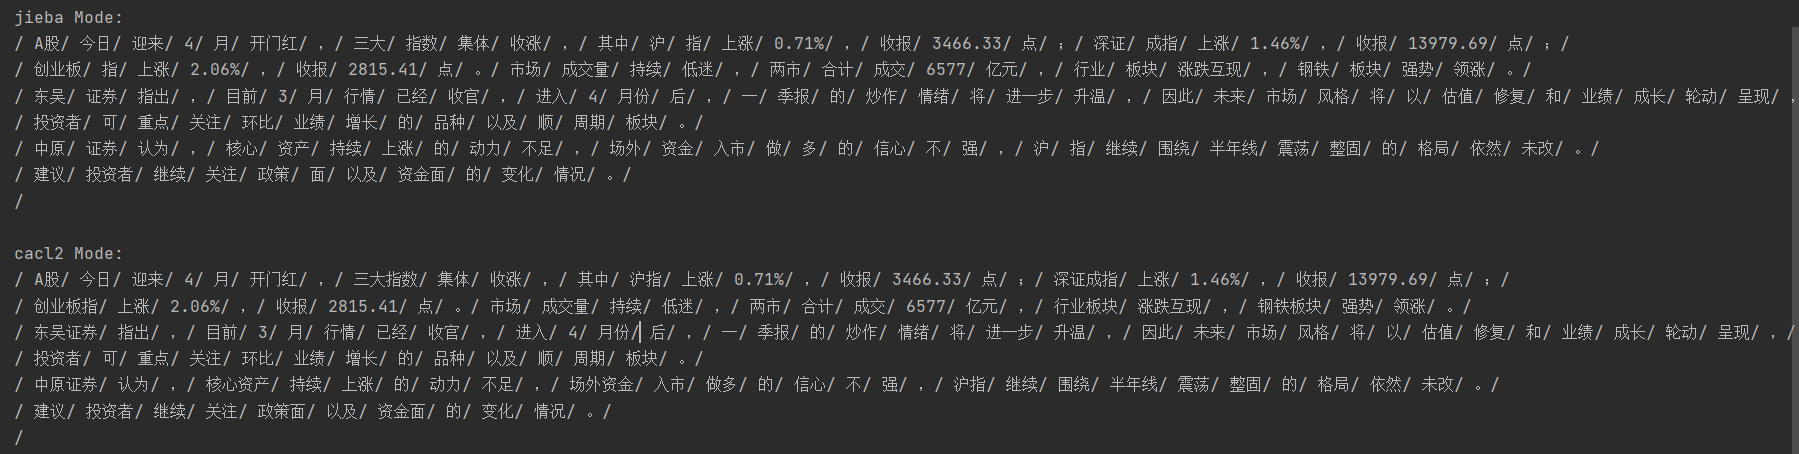
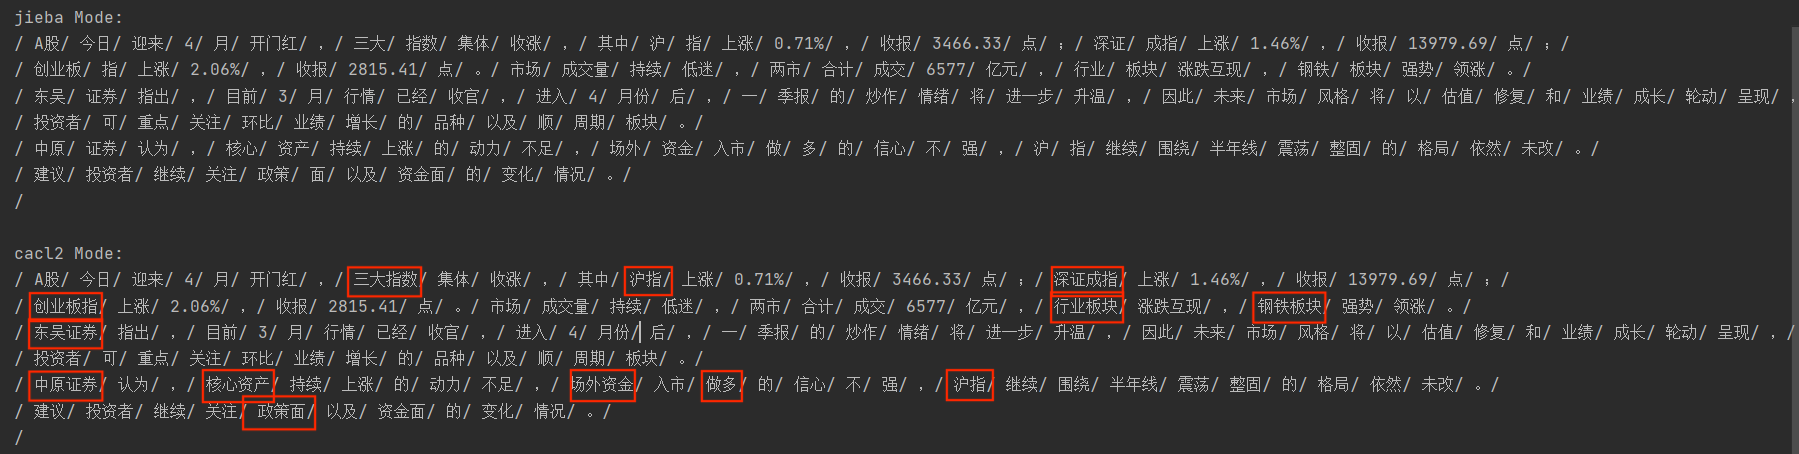
monthly update

diff --git a/README.md b/README.md
@@ -126,9 +126,70 @@ If you need further information about all entries, Please refer to [Statistics](
 ## Comparison and Test
 ### 1.Comparsion 
 #### 1.1 Compare CaCl2 Dictionary and [jieba](https://github.com/fxsjy/jieba/)（@CaoWJ）Dictionary
-![Compare Lexicon]()
+
+##### Text for test
+```python
+text = """
+A股今日迎来4月开门红，三大指数集体收涨，其中沪指上涨0.71%，收报3466.33点；深证成指上涨1.46%，收报13979.69点；
+创业板指上涨2.06%，收报2815.41点。市场成交量持续低迷，两市合计成交6577亿元，行业板块涨跌互现，钢铁板块强势领涨。
+东吴证券指出，目前3月行情已经收官，进入4月份后，一季报的炒作情绪将进一步升温，因此未来市场风格将以估值修复和业绩成长轮动呈现，
+投资者可重点关注环比业绩增长的品种以及顺周期板块。
+中原证券认为，核心资产持续上涨的动力不足，场外资金入市做多的信心不强，沪指继续围绕半年线震荡整固的格局依然未改。
+建议投资者继续关注政策面以及资金面的变化情况。
+
+"""
+```
+##### Implement jieba with standard dictionary (demo)
+```python
+import jieba
+seg_list = jieba.cut(text, cut_all=False)
+print("jieba: " + "/ ".join(seg_list))
+```
+##### Jieba Output:
+```
+/ A股/ 今日/ 迎来/ 4/ 月/ 开门红/ ，/ 三大/ 指数/ 集体/ 收涨/ ，/ 其中/ 沪/ 指/ 上涨/ 0.71%/ ，/ 收报/ 3466.33/ 点/ ；/ 深证/ 成指/ 上涨/ 1.46%/ ，/ 收报/ 13979.69/ 点/ ；/ 
+/ 创业板/ 指/ 上涨/ 2.06%/ ，/ 收报/ 2815.41/ 点/ 。/ 市场/ 成交量/ 持续/ 低迷/ ，/ 两市/ 合计/ 成交/ 6577/ 亿元/ ，/ 行业/ 板块/ 涨跌互现/ ，/ 钢铁/ 板块/ 强势/ 领涨/ 。/ 
+/ 东吴/ 证券/ 指出/ ，/ 目前/ 3/ 月/ 行情/ 已经/ 收官/ ，/ 进入/ 4/ 月份/ 后/ ，/ 一/ 季报/ 的/ 炒作/ 情绪/ 将/ 进一步/ 升温/ ，/ 因此/ 未来/ 市场/ 风格/ 将/ 以/ 估值/ 修复/ 和/ 业绩/ 成长/ 轮动/ 呈现/ ，/ 
+/ 投资者/ 可/ 重点/ 关注/ 环比/ 业绩/ 增长/ 的/ 品种/ 以及/ 顺/ 周期/ 板块/ 。/ 
+/ 中原/ 证券/ 认为/ ，/ 核心/ 资产/ 持续/ 上涨/ 的/ 动力/ 不足/ ，/ 场外/ 资金/ 入市/ 做/ 多/ 的/ 信心/ 不/ 强/ ，/ 沪/ 指/ 继续/ 围绕/ 半年线/ 震荡/ 整固/ 的/ 格局/ 依然/ 未改/ 。/ 
+/ 建议/ 投资者/ 继续/ 关注/ 政策/ 面/ 以及/ 资金面/ 的/ 变化/ 情况/ 。/ 
+```
+##### Implement jieba with CaCl2 dictionary
+```python
+import jieba
+dict_name = '490000.txt'
+jieba.load_userdict(dict_name)
+seg_list = jieba.cut(text, cut_all=False)
+print("cacl2: " + "/ ".join(seg_list))
+```
+##### CaCl2 Output:
+```
+/ A股/ 今日/ 迎来/ 4/ 月/ 开门红/ ，/ 三大指数/ 集体/ 收涨/ ，/ 其中/ 沪指/ 上涨/ 0.71%/ ，/ 收报/ 3466.33/ 点/ ；/ 深证成指/ 上涨/ 1.46%/ ，/ 收报/ 13979.69/ 点/ ；/ 
+/ 创业板指/ 上涨/ 2.06%/ ，/ 收报/ 2815.41/ 点/ 。/ 市场/ 成交量/ 持续/ 低迷/ ，/ 两市/ 合计/ 成交/ 6577/ 亿元/ ，/ 行业板块/ 涨跌互现/ ，/ 钢铁板块/ 强势/ 领涨/ 。/ 
+/ 东吴证券/ 指出/ ，/ 目前/ 3/ 月/ 行情/ 已经/ 收官/ ，/ 进入/ 4/ 月份/ 后/ ，/ 一/ 季报/ 的/ 炒作/ 情绪/ 将/ 进一步/ 升温/ ，/ 因此/ 未来/ 市场/ 风格/ 将/ 以/ 估值/ 修复/ 和/ 业绩/ 成长/ 轮动/ 呈现/ ，/ 
+/ 投资者/ 可/ 重点/ 关注/ 环比/ 业绩/ 增长/ 的/ 品种/ 以及/ 顺/ 周期/ 板块/ 。/ 
+/ 中原证券/ 认为/ ，/ 核心资产/ 持续/ 上涨/ 的/ 动力/ 不足/ ，/ 场外资金/ 入市/ 做多/ 的/ 信心/ 不/ 强/ ，/ 沪指/ 继续/ 围绕/ 半年线/ 震荡/ 整固/ 的/ 格局/ 依然/ 未改/ 。/ 
+/ 建议/ 投资者/ 继续/ 关注/ 政策面/ 以及/ 资金面/ 的/ 变化/ 情况/ 。/ 
+```
+* **Comparsion**
+
+![Compare CaCl2 and Jieba dictionary](https://github.com/limccn/cacl2/blob/master/docs/images/jieba.png)
+
 #### 1.2 Word segmentation compare with [招金词酷](https://mp.weixin.qq.com/s/CuSZQ-BVZTzVS1ljYLcaKw?)（@CaoWJ）
-![Word segmentation]()
+
+##### 招金词酷(version 1.1) Output
+```
+A股  今日  迎来  4  月  开门红  三大  指数  集体  收涨  其中  沪指  上涨  0.71  %  收报  3466.33  点  深证  成指  上涨  1.46  %  收报  13979.69  点  
+创业板  指  上涨  2.06  %  收报  2815.41  点  市场  成交量  持续  低迷  两  市  合计  成交  6577  亿元  行业板块  涨跌互现  钢铁板块  强势  领涨  
+东吴证券  指出  目前  3  月  行情  已经  收官  进入  4  月份  后  一  季报  的  炒作  情绪  将  进一步  升温  因此  未来  市场  风格  将  以  估值  修复  和  业绩  成长  轮动  呈现  
+投资者  可  重点关注  环比  业绩增长  的  品种  以及  顺  周期  板块  
+中原证券  认为  核心  资产  持续  上涨的  动力  不足  场外  资金  入市  做  多  的  信心  不  强  沪指  继续  围绕  半年线  震荡  整固  的  格局  依然  未改  
+建议投资者  继续关注  政策面  以及  资金面  的  变化  情况
+```
+
+* **Comparsion**
+
+![Compare CaCl2 and 招金词酷](https://github.com/limccn/cacl2/blob/master/docs/images/zhaojinciku.png)
 #### 1.3 Document summarization compare with [招金词酷](https://mp.weixin.qq.com/s/CuSZQ-BVZTzVS1ljYLcaKw?)（@CaoWJ）
 ![Document summarization]()
 
@@ -158,7 +219,9 @@ Word segmentation test use Standard Chinese test dataset
 ### 2.Monthly/Quarterly releases
 | Version |  Circle |  Date | Changelogs |
 | :----: | :----: | :----: | :---- |
-| v0.2.21.04 | monthly | 2021-02-01 | Release: banking and financials dictionary  |
+| v0.2.21.03 | monthly | 2021-04-06 | Comparsion test and code added |
+| v0.2.21.02 | monthly | 2021-03-01 | Candidate entries added |
+| v0.2.21.01 | monthly | 2021-02-01 | Release: banking and financials dictionary  |
 | v0.2.20.12 | monthly | 2021-01-01 | v0.2 Initial version |
 
 **Detail monthly/quarterly releases history, please refer to [Auto-Release history](https://github.com/limccn/cacl2#2monthlyqurterly-releases)

diff --git a/README-zh_CN.md b/README-zh_CN.md
@@ -120,7 +120,8 @@ jieba.load_userdict(os.path.join(BASE_PATH_TO_DICT), dict_name))
 ## 四、使用效果
 ### 1.工具测试对比
 #### 1.1 使用CaCl2标准词库和Jieba标准库测试分词结果对比
-分词文本内容
+
+##### 测试分词文本内容
 ```python
 text = """
 A股今日迎来4月开门红，三大指数集体收涨，其中沪指上涨0.71%，收报3466.33点；深证成指上涨1.46%，收报13979.69点；
@@ -132,15 +133,14 @@ A股今日迎来4月开门红，三大指数集体收涨，其中沪指上涨0.7
 
 """
 ```
-* **Jieba标准库分词（代码示例）**
+##### Jieba标准库分词（代码示例）
 ```python
 import jieba
 seg_list = jieba.cut(text, cut_all=False)
-print("jieba Mode: " + "/ ".join(seg_list))
+print("jieba: " + "/ ".join(seg_list))
 ```
-Output:
-```python
-jieba Mode: 
+##### Jieba输出结果:
+```
 / A股/ 今日/ 迎来/ 4/ 月/ 开门红/ ，/ 三大/ 指数/ 集体/ 收涨/ ，/ 其中/ 沪/ 指/ 上涨/ 0.71%/ ，/ 收报/ 3466.33/ 点/ ；/ 深证/ 成指/ 上涨/ 1.46%/ ，/ 收报/ 13979.69/ 点/ ；/ 
 / 创业板/ 指/ 上涨/ 2.06%/ ，/ 收报/ 2815.41/ 点/ 。/ 市场/ 成交量/ 持续/ 低迷/ ，/ 两市/ 合计/ 成交/ 6577/ 亿元/ ，/ 行业/ 板块/ 涨跌互现/ ，/ 钢铁/ 板块/ 强势/ 领涨/ 。/ 
 / 东吴/ 证券/ 指出/ ，/ 目前/ 3/ 月/ 行情/ 已经/ 收官/ ，/ 进入/ 4/ 月份/ 后/ ，/ 一/ 季报/ 的/ 炒作/ 情绪/ 将/ 进一步/ 升温/ ，/ 因此/ 未来/ 市场/ 风格/ 将/ 以/ 估值/ 修复/ 和/ 业绩/ 成长/ 轮动/ 呈现/ ，/ 
@@ -148,17 +148,16 @@ jieba Mode:
 / 中原/ 证券/ 认为/ ，/ 核心/ 资产/ 持续/ 上涨/ 的/ 动力/ 不足/ ，/ 场外/ 资金/ 入市/ 做/ 多/ 的/ 信心/ 不/ 强/ ，/ 沪/ 指/ 继续/ 围绕/ 半年线/ 震荡/ 整固/ 的/ 格局/ 依然/ 未改/ 。/ 
 / 建议/ 投资者/ 继续/ 关注/ 政策/ 面/ 以及/ 资金面/ 的/ 变化/ 情况/ 。/ 
 ```
-* **CaCl2标准词库分词（代码示例）**
+##### CaCl2标准词库分词（代码示例）
 ```python
 import jieba
 dict_name = '490000.txt'
 jieba.load_userdict(dict_name)
 seg_list = jieba.cut(text, cut_all=False)
-print("cacl2 Mode: " + "/ ".join(seg_list))
+print("cacl2: " + "/ ".join(seg_list))
 ```
-Output:
-```python
-cacl2 Mode: 
+##### CaCl2输出结果:
+```
 / A股/ 今日/ 迎来/ 4/ 月/ 开门红/ ，/ 三大指数/ 集体/ 收涨/ ，/ 其中/ 沪指/ 上涨/ 0.71%/ ，/ 收报/ 3466.33/ 点/ ；/ 深证成指/ 上涨/ 1.46%/ ，/ 收报/ 13979.69/ 点/ ；/ 
 / 创业板指/ 上涨/ 2.06%/ ，/ 收报/ 2815.41/ 点/ 。/ 市场/ 成交量/ 持续/ 低迷/ ，/ 两市/ 合计/ 成交/ 6577/ 亿元/ ，/ 行业板块/ 涨跌互现/ ，/ 钢铁板块/ 强势/ 领涨/ 。/ 
 / 东吴证券/ 指出/ ，/ 目前/ 3/ 月/ 行情/ 已经/ 收官/ ，/ 进入/ 4/ 月份/ 后/ ，/ 一/ 季报/ 的/ 炒作/ 情绪/ 将/ 进一步/ 升温/ ，/ 因此/ 未来/ 市场/ 风格/ 将/ 以/ 估值/ 修复/ 和/ 业绩/ 成长/ 轮动/ 呈现/ ，/ 
@@ -166,12 +165,13 @@ cacl2 Mode:
 / 中原证券/ 认为/ ，/ 核心资产/ 持续/ 上涨/ 的/ 动力/ 不足/ ，/ 场外资金/ 入市/ 做多/ 的/ 信心/ 不/ 强/ ，/ 沪指/ 继续/ 围绕/ 半年线/ 震荡/ 整固/ 的/ 格局/ 依然/ 未改/ 。/ 
 / 建议/ 投资者/ 继续/ 关注/ 政策面/ 以及/ 资金面/ 的/ 变化/ 情况/ 。/ 
 ```
-* **对比Jieba标准库测试分词结果对比图**
+##### 对比Jieba标准库测试分词结果对比图
 
 ![对比Jieba标准库测试分词结果对比图](https://github.com/limccn/cacl2/blob/master/docs/images/jieba.png)
 #### 1.2 使用CaCl2和金融行业词库对比【招金词酷】进行分词
-* **【招金词酷】使用1.1的分词文本内容分词结果**
-```python
+
+##### 【招金词酷】（版本1.1）的分词文本内容分词结果
+```
 A股  今日  迎来  4  月  开门红  三大  指数  集体  收涨  其中  沪指  上涨  0.71  %  收报  3466.33  点  深证  成指  上涨  1.46  %  收报  13979.69  点  
 创业板  指  上涨  2.06  %  收报  2815.41  点  市场  成交量  持续  低迷  两  市  合计  成交  6577  亿元  行业板块  涨跌互现  钢铁板块  强势  领涨  
 东吴证券  指出  目前  3  月  行情  已经  收官  进入  4  月份  后  一  季报  的  炒作  情绪  将  进一步  升温  因此  未来  市场  风格  将  以  估值  修复  和  业绩  成长  轮动  呈现  
@@ -179,7 +179,7 @@ A股  今日  迎来  4  月  开门红  三大  指数  集体  收涨  其中 
 中原证券  认为  核心  资产  持续  上涨的  动力  不足  场外  资金  入市  做  多  的  信心  不  强  沪指  继续  围绕  半年线  震荡  整固  的  格局  依然  未改  
 建议投资者  继续关注  政策面  以及  资金面  的  变化  情况
 ```
-* **对比【招金词酷】测试分词结果对比图**
+##### 对比【招金词酷】（版本1.1）测试分词结果对比图
 
 ![CaCl2和金融行业词库对比【招金词酷】进行分词](https://github.com/limccn/cacl2/blob/master/docs/images/zhaojinciku.png)
 #### 1.3 使用CaCl2和金融行业词库对比【招金词酷】进行分词提出摘要（@CaoWJ）
@@ -208,7 +208,9 @@ A股  今日  迎来  4  月  开门红  三大  指数  集体  收涨  其中 
 ### 2.自动发布版本
 | 最新版本 | 发布周期 | 发布时间 | 变更日志 |
 | :----: | :----: | :----: | :---- |
-| v0.2.21.04 | monthly | 2021-02-01 | 金融行业（银行和非银金融）行业词库发布 |
+| v0.2.21.03 | monthly | 2021-04-06 | 公开金融行业测试数据结果 |
+| v0.2.21.02 | monthly | 2021-03-01 | 增加28个行业候选词条约100万 |
+| v0.2.21.01 | monthly | 2021-02-01 | 金融行业（银行和非银金融）行业词库发布 |
 | v0.2.20.12 | monthly | 2021-01-01 | 版本0.2的初版，开源第一版，提供28个一级行业的各1万个词条预览 |
 
 **历史自动发布版本，请参考链接: [版本历史](https://github.com/limccn/cacl2#2monthlyqurterly-releases)

diff --git a/STATUES-zh_CN.md b/STATUES-zh_CN.md
@@ -6,8 +6,8 @@
 
 |  时间 |  总词条数 | 候选词条 | 已公开词条 | 预览版词条 |
 | :----: | :----: |  :----: | :----: | :----: | 
-| 2021-04-01 | 约21,000,000 | 约3,000,000 | 2,624,625 | 280,000 |
-
+| 2021-03-01 | 约21,000,000 | 约3,000,000 | 2,624,625 | 280,000 |
+| 2021-02-01 | 约21,000,000 | 约3,000,000 | 2,553,806 | 280,000 |
 #### 行业字典数
 |  时间 | 行业 | 词典数 | 已公开  | 预览版 | 未公开  | 
 | :----: | :----: |  :----: | :----: | :----: | :----: |

diff --git a/STATUES.md b/STATUES.md
@@ -4,7 +4,8 @@
 ### Entries
 |  Date |  Total  | Candidate  | Released  | Preview  |
 | :----: | :----: |  :----: | :----: | :----: | 
-| 2021-02-01 | 21,000,000 | 3,000,000 | 2,624,625 | 280,000 | 
+| 2021-03-01 | 21,000,000 | 3,000,000 | 2,624,625 | 280,000 | 
+| 2021-02-01 | 21,000,000 | 3,000,000 | 2,553,806 | 280,000 |
 
 ### Dictionaries
 |  Date | Class | Industries | Released  | Preview |  Closing  | 
